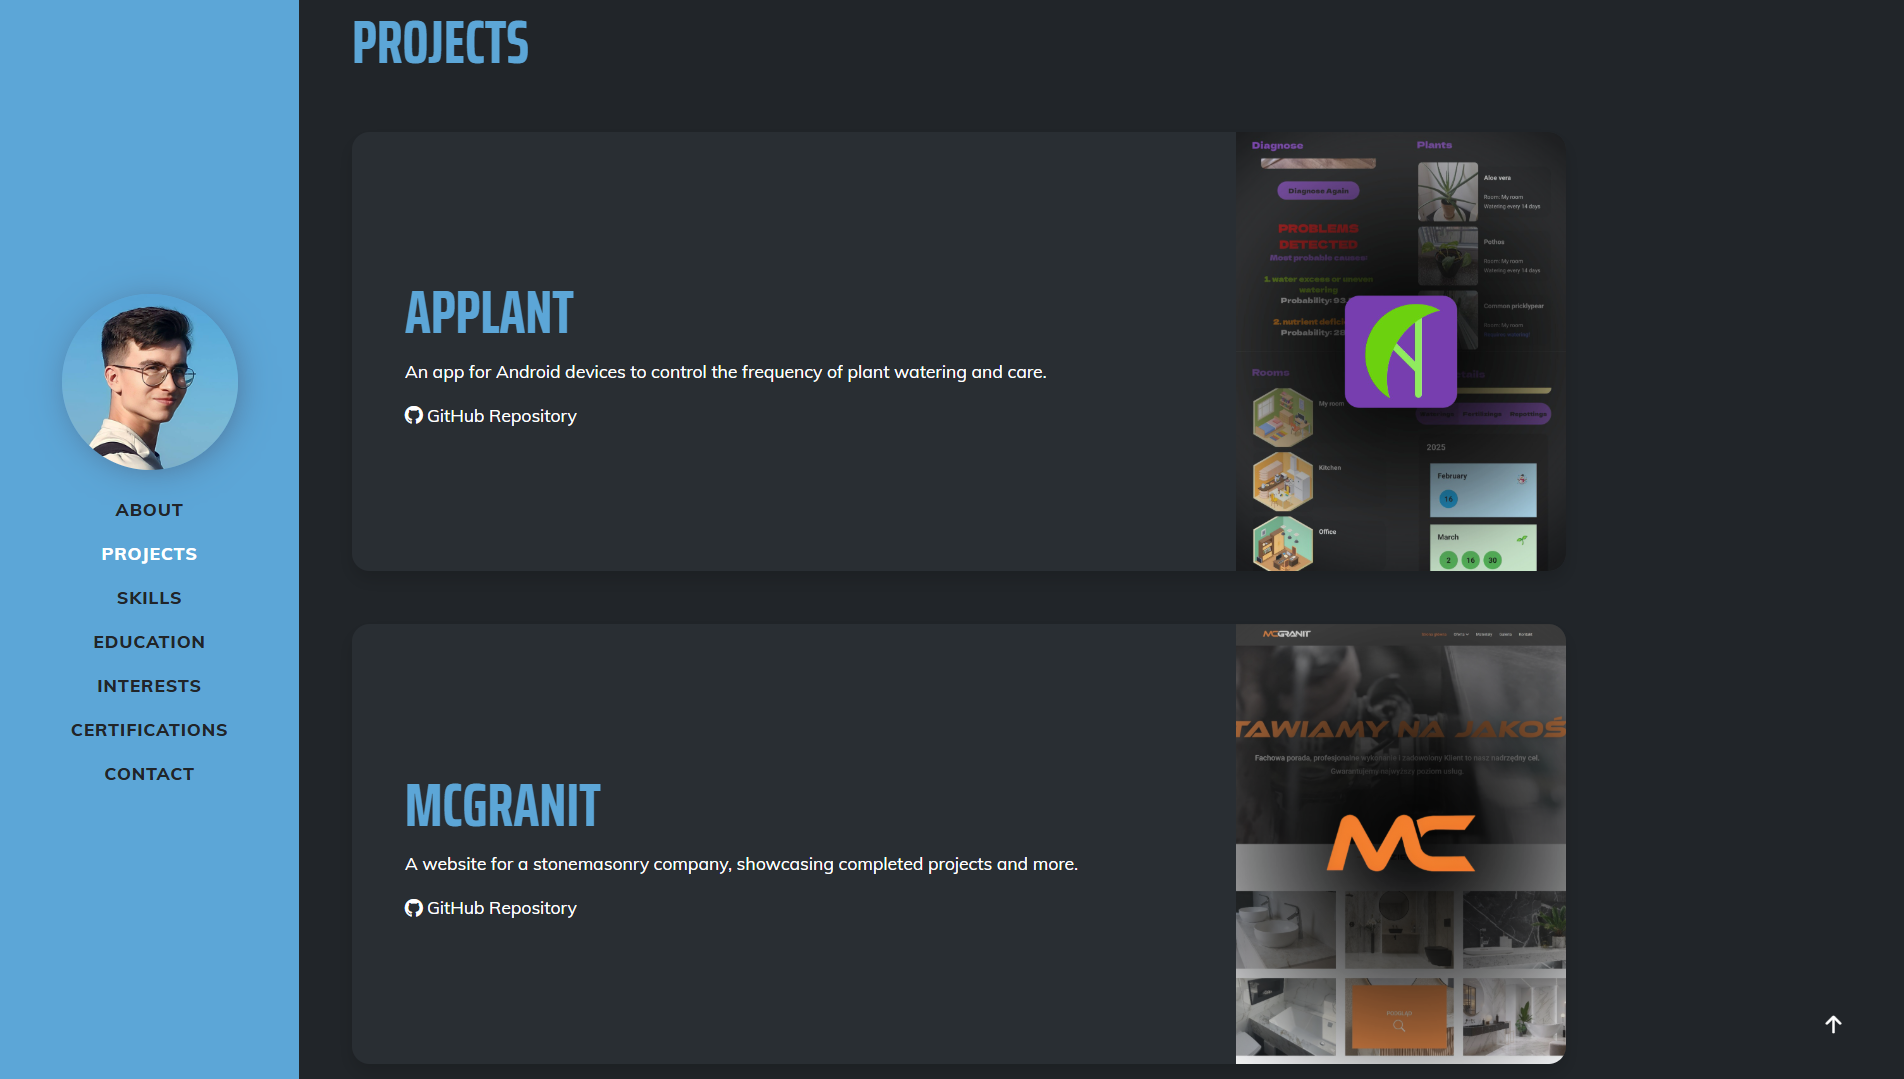
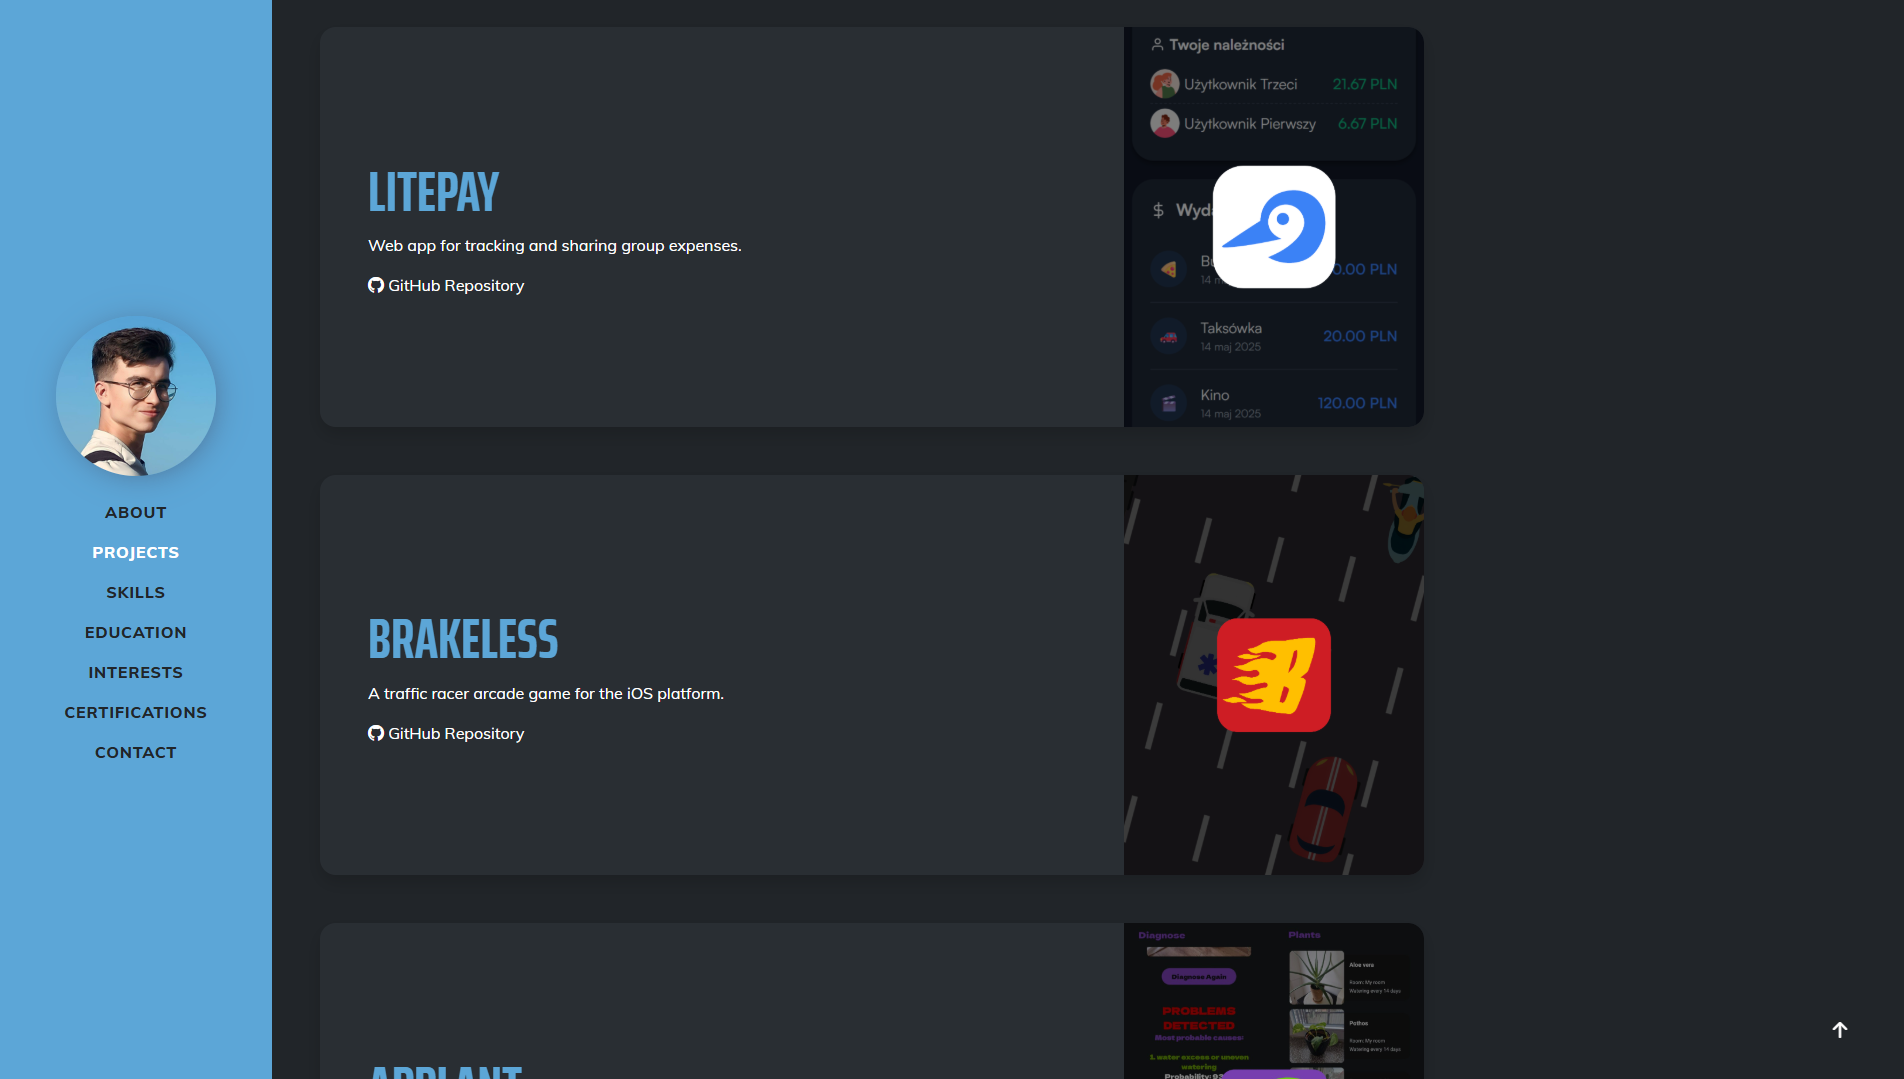
Content update

diff --git a/myWeb/index.html b/myWeb/index.html
@@ -4,17 +4,15 @@
         <meta charset="utf-8" />
         <meta name="viewport" content="width=device-width, initial-scale=1, shrink-to-fit=no" />
         <meta name="description" content="" />
+        <meta name="theme-color" content="#5ca6d7" />
         <meta name="author" content="" />
         <title>Hubert Jędruchniewicz - Portfolio</title>
+
         <link rel="icon" type="image/x-icon" href="assets/img/profile.jpg" />
-        <!-- Font Awesome icons (free version)-->
         <script src="https://use.fontawesome.com/releases/v6.3.0/js/all.js" crossorigin="anonymous"></script>
-        <!-- Bootsrap Icons-->
         <link href="https://cdn.jsdelivr.net/npm/bootstrap-icons/font/bootstrap-icons.css" rel="stylesheet">
-        <!-- Google fonts-->
         <link href="https://fonts.googleapis.com/css?family=Saira+Extra+Condensed:500,700" rel="stylesheet" type="text/css" />
         <link href="https://fonts.googleapis.com/css?family=Muli:400,400i,800,800i" rel="stylesheet" type="text/css" />
-        <!-- Core theme CSS (includes Bootstrap)-->
         <link href="css/styles.css" rel="stylesheet" />
         <link href="assets/aos/aos.css" rel="stylesheet">
     </head>
@@ -64,6 +62,18 @@
             <section class="resume-section" id="experience">
                 <div class="resume-section-content">
                     <h2 class="mb-5" data-aos="fade-up">Projects</h2>
+                    <div class="card card-12 overflow-hidden shadow rounded-4 border-0 mb-5" data-aos="fade-up">
+                        <div class="card-body p-0">
+                            <div class="d-flex align-items-center justify-content-between">
+                                <div class="p-5 text-content">
+                                    <h2 class="fw-bolder">Habita</h2>
+                                    <p>A habit tracking app for the iOS platform.</p>
+                                    <a href="https://github.com/hadoyyo/Habita" target="_blank"><i class="bi bi-github"></i> GitHub Repository</a>
+                                </div>
+                                <img class="img-fluid" src="assets/img/habita_back.jpg" width="300px" alt="..." />
+                            </div>
+                        </div>
+                    </div>
                     <div class="card card-11 overflow-hidden shadow rounded-4 border-0 mb-5" data-aos="fade-up">
                         <div class="card-body p-0">
                             <div class="d-flex align-items-center justify-content-between">
@@ -81,7 +91,7 @@
                             <div class="d-flex align-items-center justify-content-between">
                                 <div class="p-5 text-content">
                                     <h2 class="fw-bolder">Brakeless</h2>
-                                    <p>An arcade game for the iOS platform.</p>
+                                    <p>A traffic racer arcade game for the iOS platform.</p>
                                     <a href="https://github.com/hadoyyo/Brakeless" target="_blank"><i class="bi bi-github"></i> GitHub Repository</a>
                                 </div>
                                 <img class="img-fluid" src="assets/img/brakeless_back.png" width="300px" alt="..." />
@@ -106,9 +116,9 @@
                                 <div class="p-5 text-content">
                                     <h2 class="fw-bolder">McGranit</h2>
                                     <p>A website for a stonemasonry company, showcasing completed projects and more.</p>
-                                    <a href="https://github.com/hadoyyo/McGranit-Website" target="_blank"><i class="bi bi-github"></i> GitHub Repository</a>
+                                    <a href="https://mcgranit.com.pl" target="_blank"><i class="bi bi-link-45deg"></i>mcgranit.com.pl</a>
                                 </div>
-                                <img class="img-fluid" src="assets/img/mcgranit_back.png" width="300px" alt="..." />
+                                <img class="img-fluid" src="assets/img/mcgranit_back.jpg" width="300px" alt="..." />
                             </div>
                         </div>
                     </div>

diff --git a/myWeb/css/styles.css b/myWeb/css/styles.css
@@ -11020,7 +11020,7 @@ section.resume-section .resume-section-content {
 }
 
 .card-8 .card-body {
-  background-image: url('../assets/img/mcgranit_mini.png');
+  background-image: url('../assets/img/mcgranit_mini.jpg');
 }
 
 .card-9 .card-body {
@@ -11033,6 +11033,10 @@ section.resume-section .resume-section-content {
 
 .card-11 .card-body {
   background-image: url('../assets/img/litepay_mini.png');
+}
+
+.card-12 .card-body {
+  background-image: url('../assets/img/habita_mini.jpg');
 }
 
   .text-content {
